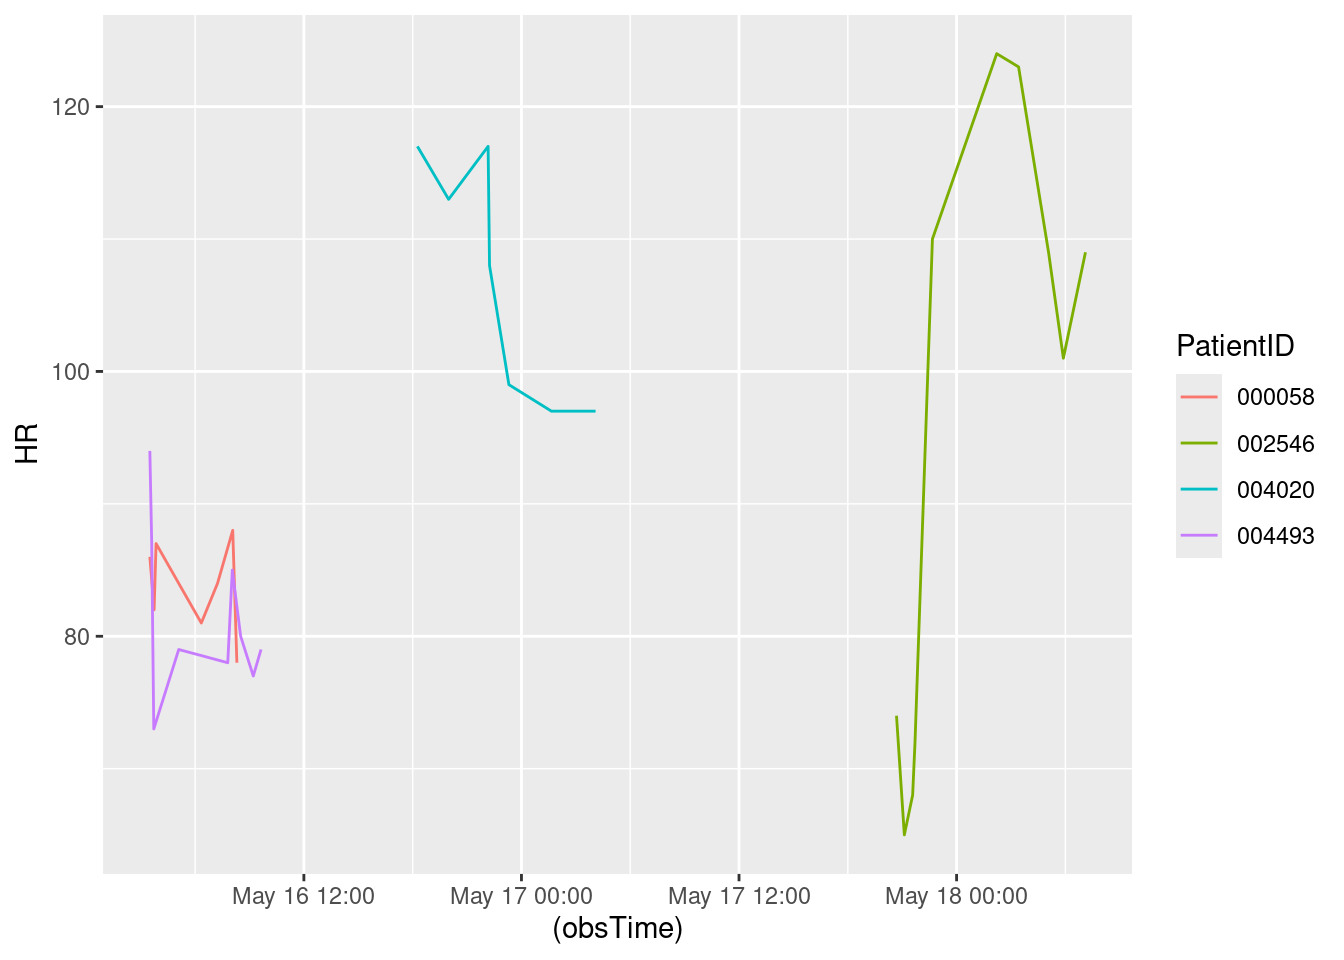
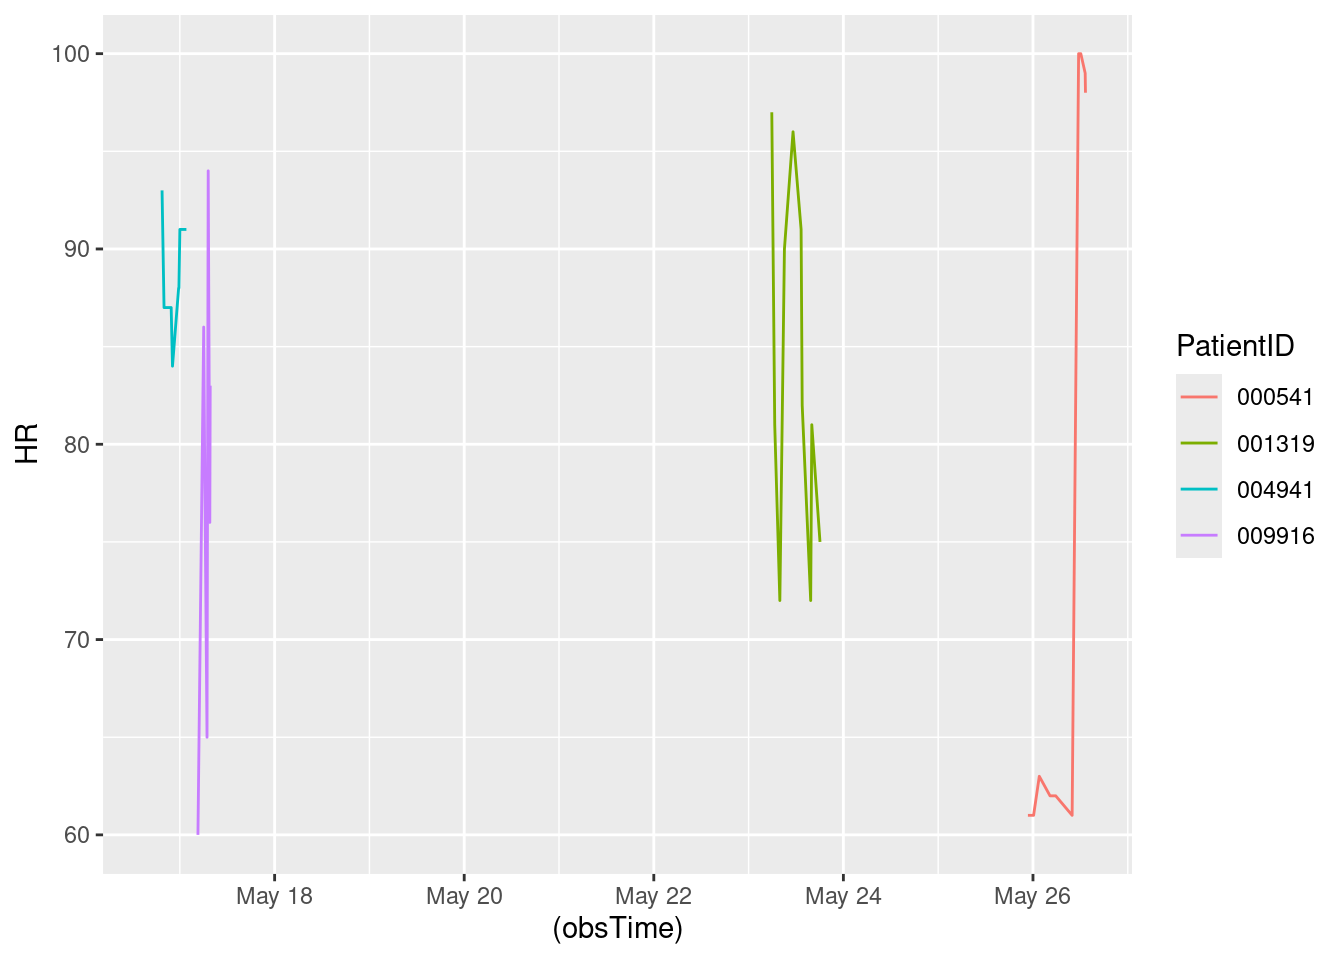
Updated report

diff --git a/HW7.html b/HW7.html
@@ -152,7 +152,7 @@ The following object is masked from 'package:purrr':
 </div>
 <div class="sourceCode cell-code" id="cb8"><pre class="sourceCode r code-with-copy"><code class="sourceCode r"><span id="cb8-1"><a href="#cb8-1" aria-hidden="true" tabindex="-1"></a><span class="fu">toc</span>()</span></code><button title="Copy to Clipboard" class="code-copy-button"><i class="bi"></i></button></pre></div>
 <div class="cell-output cell-output-stdout">
-<pre><code>21.197 sec elapsed</code></pre>
+<pre><code>19.043 sec elapsed</code></pre>
 </div>
 <div class="sourceCode cell-code" id="cb10"><pre class="sourceCode r code-with-copy"><code class="sourceCode r"><span id="cb10-1"><a href="#cb10-1" aria-hidden="true" tabindex="-1"></a><span class="fu">tic</span>()</span>
 <span id="cb10-2"><a href="#cb10-2" aria-hidden="true" tabindex="-1"></a>test1<span class="ot">=</span><span class="fu">makeSepsisDataset</span>(<span class="at">n=</span><span class="dv">50</span>,<span class="at">read_fn =</span> <span class="st">"read_delim"</span>)</span>
@@ -162,7 +162,7 @@ The following object is masked from 'package:purrr':
 </div>
 <div class="sourceCode cell-code" id="cb12"><pre class="sourceCode r code-with-copy"><code class="sourceCode r"><span id="cb12-1"><a href="#cb12-1" aria-hidden="true" tabindex="-1"></a><span class="fu">toc</span>()</span></code><button title="Copy to Clipboard" class="code-copy-button"><i class="bi"></i></button></pre></div>
 <div class="cell-output cell-output-stdout">
-<pre><code>15.666 sec elapsed</code></pre>
+<pre><code>13.762 sec elapsed</code></pre>
 </div>
 <div class="sourceCode cell-code" id="cb14"><pre class="sourceCode r code-with-copy"><code class="sourceCode r"><span id="cb14-1"><a href="#cb14-1" aria-hidden="true" tabindex="-1"></a><span class="fu">tic</span>()</span>
 <span id="cb14-2"><a href="#cb14-2" aria-hidden="true" tabindex="-1"></a>test1<span class="ot">=</span><span class="fu">makeSepsisDataset</span>(<span class="at">n=</span><span class="dv">100</span>,<span class="at">read_fn =</span> <span class="st">"fread"</span>)</span>
@@ -172,7 +172,7 @@ The following object is masked from 'package:purrr':
 </div>
 <div class="sourceCode cell-code" id="cb16"><pre class="sourceCode r code-with-copy"><code class="sourceCode r"><span id="cb16-1"><a href="#cb16-1" aria-hidden="true" tabindex="-1"></a><span class="fu">toc</span>()</span></code><button title="Copy to Clipboard" class="code-copy-button"><i class="bi"></i></button></pre></div>
 <div class="cell-output cell-output-stdout">
-<pre><code>39.323 sec elapsed</code></pre>
+<pre><code>28.25 sec elapsed</code></pre>
 </div>
 <div class="sourceCode cell-code" id="cb18"><pre class="sourceCode r code-with-copy"><code class="sourceCode r"><span id="cb18-1"><a href="#cb18-1" aria-hidden="true" tabindex="-1"></a><span class="fu">tic</span>()</span>
 <span id="cb18-2"><a href="#cb18-2" aria-hidden="true" tabindex="-1"></a>test1<span class="ot">=</span><span class="fu">makeSepsisDataset</span>(<span class="at">n=</span><span class="dv">100</span>,<span class="at">read_fn =</span> <span class="st">"read_delim"</span>)</span>
@@ -182,7 +182,7 @@ The following object is masked from 'package:purrr':
 </div>
 <div class="sourceCode cell-code" id="cb20"><pre class="sourceCode r code-with-copy"><code class="sourceCode r"><span id="cb20-1"><a href="#cb20-1" aria-hidden="true" tabindex="-1"></a><span class="fu">toc</span>()</span></code><button title="Copy to Clipboard" class="code-copy-button"><i class="bi"></i></button></pre></div>
 <div class="cell-output cell-output-stdout">
-<pre><code>31.415 sec elapsed</code></pre>
+<pre><code>25.569 sec elapsed</code></pre>
 </div>
 <div class="sourceCode cell-code" id="cb22"><pre class="sourceCode r code-with-copy"><code class="sourceCode r"><span id="cb22-1"><a href="#cb22-1" aria-hidden="true" tabindex="-1"></a><span class="fu">tic</span>()</span>
 <span id="cb22-2"><a href="#cb22-2" aria-hidden="true" tabindex="-1"></a>test1<span class="ot">=</span><span class="fu">makeSepsisDataset</span>(<span class="at">n=</span><span class="dv">500</span>,<span class="at">read_fn =</span> <span class="st">"fread"</span>)</span>
@@ -192,7 +192,7 @@ The following object is masked from 'package:purrr':
 </div>
 <div class="sourceCode cell-code" id="cb24"><pre class="sourceCode r code-with-copy"><code class="sourceCode r"><span id="cb24-1"><a href="#cb24-1" aria-hidden="true" tabindex="-1"></a><span class="fu">toc</span>()</span></code><button title="Copy to Clipboard" class="code-copy-button"><i class="bi"></i></button></pre></div>
 <div class="cell-output cell-output-stdout">
-<pre><code>193.277 sec elapsed</code></pre>
+<pre><code>139.263 sec elapsed</code></pre>
 </div>
 <div class="sourceCode cell-code" id="cb26"><pre class="sourceCode r code-with-copy"><code class="sourceCode r"><span id="cb26-1"><a href="#cb26-1" aria-hidden="true" tabindex="-1"></a><span class="fu">tic</span>()</span>
 <span id="cb26-2"><a href="#cb26-2" aria-hidden="true" tabindex="-1"></a>test1<span class="ot">=</span><span class="fu">makeSepsisDataset</span>(<span class="at">n=</span><span class="dv">500</span>,<span class="at">read_fn =</span> <span class="st">"read_delim"</span>)</span>
@@ -202,7 +202,7 @@ The following object is masked from 'package:purrr':
 </div>
 <div class="sourceCode cell-code" id="cb28"><pre class="sourceCode r code-with-copy"><code class="sourceCode r"><span id="cb28-1"><a href="#cb28-1" aria-hidden="true" tabindex="-1"></a><span class="fu">toc</span>()</span></code><button title="Copy to Clipboard" class="code-copy-button"><i class="bi"></i></button></pre></div>
 <div class="cell-output cell-output-stdout">
-<pre><code>155.082 sec elapsed</code></pre>
+<pre><code>129.596 sec elapsed</code></pre>
 </div>
 </div>
 <p>Problem 3: Speed reading</p>
@@ -244,7 +244,7 @@ dttm (1): obsTime
 <div class="sourceCode cell-code" id="cb35"><pre class="sourceCode r code-with-copy"><code class="sourceCode r"><span id="cb35-1"><a href="#cb35-1" aria-hidden="true" tabindex="-1"></a><span class="co">#Sys.Date()</span></span>
 <span id="cb35-2"><a href="#cb35-2" aria-hidden="true" tabindex="-1"></a><span class="fu">Sys.time</span>()</span></code><button title="Copy to Clipboard" class="code-copy-button"><i class="bi"></i></button></pre></div>
 <div class="cell-output cell-output-stdout">
-<pre><code>[1] "2024-05-16 03:30:18 UTC"</code></pre>
+<pre><code>[1] "2024-05-16 04:25:00 UTC"</code></pre>
 </div>
 <div class="sourceCode cell-code" id="cb37"><pre class="sourceCode r code-with-copy"><code class="sourceCode r"><span id="cb37-1"><a href="#cb37-1" aria-hidden="true" tabindex="-1"></a>dfnew<span class="ot">=</span>df <span class="sc">%&gt;%</span><span class="fu">subset</span>(SepsisLabel<span class="sc">==</span><span class="dv">1</span>)</span>
 <span id="cb37-2"><a href="#cb37-2" aria-hidden="true" tabindex="-1"></a></span>
@@ -263,19 +263,15 @@ dttm (1): obsTime
 # Groups:   PatientID [4]
   PatientID ICULOS    HR  Temp  Resp SepsisLabel obsTime            
   &lt;chr&gt;      &lt;int&gt; &lt;int&gt; &lt;dbl&gt; &lt;int&gt;       &lt;int&gt; &lt;dttm&gt;             
-1 000058         6    78  NA      12           1 2024-05-16 08:18:17
-2 002546        53   109  NA      16           1 2024-05-18 07:06:28
-3 004020        25    97  NA      21           1 2024-05-17 04:05:20
-4 004493         8    79  37.1    27           1 2024-05-16 09:38:08</code></pre>
+1 000541       249    98  NA      20           1 2024-05-26 13:17:22
+2 001319       182    75  38.1    16           1 2024-05-23 18:04:30
+3 004941        22    91  NA      22           1 2024-05-17 01:39:50
+4 009916        28    83  NA      14           1 2024-05-17 07:41:32</code></pre>
 </div>
 </div>
 <div class="cell">
 <div class="sourceCode cell-code" id="cb39"><pre class="sourceCode r code-with-copy"><code class="sourceCode r"><span id="cb39-1"><a href="#cb39-1" aria-hidden="true" tabindex="-1"></a>dfnew <span class="sc">%&gt;%</span></span>
 <span id="cb39-2"><a href="#cb39-2" aria-hidden="true" tabindex="-1"></a>  <span class="fu">ggplot</span>()<span class="sc">+</span><span class="fu">geom_line</span>(<span class="fu">aes</span>(<span class="at">y=</span>HR,<span class="at">x=</span>(obsTime),<span class="at">color=</span>PatientID))</span></code><button title="Copy to Clipboard" class="code-copy-button"><i class="bi"></i></button></pre></div>
-<div class="cell-output cell-output-stderr">
-<pre><code>Warning: Removed 1 row containing missing values or values outside the scale range
-(`geom_line()`).</code></pre>
-</div>
 <div class="cell-output-display">
 <div>
 <figure class="figure">
@@ -288,7 +284,7 @@ dttm (1): obsTime
 <section id="display-the-most-recent-data" class="level2">
 <h2 class="anchored" data-anchor-id="display-the-most-recent-data">Display the most recent data</h2>
 <div class="cell">
-<div class="sourceCode cell-code" id="cb41"><pre class="sourceCode r code-with-copy"><code class="sourceCode r"><span id="cb41-1"><a href="#cb41-1" aria-hidden="true" tabindex="-1"></a>most_recent_data</span></code><button title="Copy to Clipboard" class="code-copy-button"><i class="bi"></i></button></pre></div>
+<div class="sourceCode cell-code" id="cb40"><pre class="sourceCode r code-with-copy"><code class="sourceCode r"><span id="cb40-1"><a href="#cb40-1" aria-hidden="true" tabindex="-1"></a>most_recent_data</span></code><button title="Copy to Clipboard" class="code-copy-button"><i class="bi"></i></button></pre></div>
 <div class="cell-output cell-output-stdout">
 <pre><code># A tibble: 50 × 7
 # Groups:   PatientID [50]
@@ -311,32 +307,32 @@ dttm (1): obsTime
 <section id="calculate-the-difference" class="level2">
 <h2 class="anchored" data-anchor-id="calculate-the-difference">Calculate the difference</h2>
 <div class="cell">
-<div class="sourceCode cell-code" id="cb43"><pre class="sourceCode r code-with-copy"><code class="sourceCode r"><span id="cb43-1"><a href="#cb43-1" aria-hidden="true" tabindex="-1"></a><span class="fu">library</span>(dplyr)</span>
-<span id="cb43-2"><a href="#cb43-2" aria-hidden="true" tabindex="-1"></a><span class="fu">library</span>(tidyr)</span>
-<span id="cb43-3"><a href="#cb43-3" aria-hidden="true" tabindex="-1"></a><span class="fu">library</span>(knitr)</span>
-<span id="cb43-4"><a href="#cb43-4" aria-hidden="true" tabindex="-1"></a>get_observation_data <span class="ot">&lt;-</span> <span class="cf">function</span>(data, n, column_suffix) {</span>
-<span id="cb43-5"><a href="#cb43-5" aria-hidden="true" tabindex="-1"></a>  data <span class="sc">%&gt;%</span></span>
-<span id="cb43-6"><a href="#cb43-6" aria-hidden="true" tabindex="-1"></a>    <span class="fu">group_by</span>(PatientID) <span class="sc">%&gt;%</span></span>
-<span id="cb43-7"><a href="#cb43-7" aria-hidden="true" tabindex="-1"></a>    <span class="fu">slice_max</span>(<span class="at">order_by =</span> obsTime, <span class="at">n =</span> n) <span class="sc">%&gt;%</span></span>
-<span id="cb43-8"><a href="#cb43-8" aria-hidden="true" tabindex="-1"></a>    <span class="fu">select</span>(<span class="sc">-</span><span class="fu">c</span>(ICULOS, SepsisLabel, obsTime)) <span class="sc">%&gt;%</span></span>
-<span id="cb43-9"><a href="#cb43-9" aria-hidden="true" tabindex="-1"></a>    <span class="fu">rename_at</span>(<span class="fu">vars</span>(HR, Temp, Resp),</span>
-<span id="cb43-10"><a href="#cb43-10" aria-hidden="true" tabindex="-1"></a>              <span class="fu">list</span>(<span class="sc">~</span><span class="fu">paste0</span>(., <span class="st">"_"</span>, column_suffix)))</span>
-<span id="cb43-11"><a href="#cb43-11" aria-hidden="true" tabindex="-1"></a>}</span>
-<span id="cb43-12"><a href="#cb43-12" aria-hidden="true" tabindex="-1"></a></span>
-<span id="cb43-13"><a href="#cb43-13" aria-hidden="true" tabindex="-1"></a></span>
-<span id="cb43-14"><a href="#cb43-14" aria-hidden="true" tabindex="-1"></a></span>
-<span id="cb43-15"><a href="#cb43-15" aria-hidden="true" tabindex="-1"></a></span>
-<span id="cb43-16"><a href="#cb43-16" aria-hidden="true" tabindex="-1"></a>last_obs <span class="ot">&lt;-</span> <span class="fu">get_observation_data</span>(new_data, <span class="dv">1</span>, <span class="st">"last"</span>)</span>
-<span id="cb43-17"><a href="#cb43-17" aria-hidden="true" tabindex="-1"></a>penultimate_obs <span class="ot">&lt;-</span> <span class="fu">get_observation_data</span>(new_data, <span class="dv">2</span>, <span class="st">"penult"</span>)</span>
-<span id="cb43-18"><a href="#cb43-18" aria-hidden="true" tabindex="-1"></a>joined_data <span class="ot">&lt;-</span> <span class="fu">full_join</span>(last_obs, penultimate_obs) <span class="sc">%&gt;%</span></span>
-<span id="cb43-19"><a href="#cb43-19" aria-hidden="true" tabindex="-1"></a>  <span class="fu">transmute</span>(PatientID,</span>
-<span id="cb43-20"><a href="#cb43-20" aria-hidden="true" tabindex="-1"></a>            <span class="st">`</span><span class="at">Temperature change</span><span class="st">`</span> <span class="ot">=</span> Temp_last <span class="sc">-</span> Temp_penult,</span>
-<span id="cb43-21"><a href="#cb43-21" aria-hidden="true" tabindex="-1"></a>            <span class="st">`</span><span class="at">Heart rate change</span><span class="st">`</span> <span class="ot">=</span> HR_last <span class="sc">-</span> HR_penult,</span>
-<span id="cb43-22"><a href="#cb43-22" aria-hidden="true" tabindex="-1"></a>            <span class="st">`</span><span class="at">Respiratory rate change</span><span class="st">`</span> <span class="ot">=</span> Resp_last <span class="sc">-</span> Resp_penult)</span></code><button title="Copy to Clipboard" class="code-copy-button"><i class="bi"></i></button></pre></div>
+<div class="sourceCode cell-code" id="cb42"><pre class="sourceCode r code-with-copy"><code class="sourceCode r"><span id="cb42-1"><a href="#cb42-1" aria-hidden="true" tabindex="-1"></a><span class="fu">library</span>(dplyr)</span>
+<span id="cb42-2"><a href="#cb42-2" aria-hidden="true" tabindex="-1"></a><span class="fu">library</span>(tidyr)</span>
+<span id="cb42-3"><a href="#cb42-3" aria-hidden="true" tabindex="-1"></a><span class="fu">library</span>(knitr)</span>
+<span id="cb42-4"><a href="#cb42-4" aria-hidden="true" tabindex="-1"></a>get_observation_data <span class="ot">&lt;-</span> <span class="cf">function</span>(data, n, column_suffix) {</span>
+<span id="cb42-5"><a href="#cb42-5" aria-hidden="true" tabindex="-1"></a>  data <span class="sc">%&gt;%</span></span>
+<span id="cb42-6"><a href="#cb42-6" aria-hidden="true" tabindex="-1"></a>    <span class="fu">group_by</span>(PatientID) <span class="sc">%&gt;%</span></span>
+<span id="cb42-7"><a href="#cb42-7" aria-hidden="true" tabindex="-1"></a>    <span class="fu">slice_max</span>(<span class="at">order_by =</span> obsTime, <span class="at">n =</span> n) <span class="sc">%&gt;%</span></span>
+<span id="cb42-8"><a href="#cb42-8" aria-hidden="true" tabindex="-1"></a>    <span class="fu">select</span>(<span class="sc">-</span><span class="fu">c</span>(ICULOS, SepsisLabel, obsTime)) <span class="sc">%&gt;%</span></span>
+<span id="cb42-9"><a href="#cb42-9" aria-hidden="true" tabindex="-1"></a>    <span class="fu">rename_at</span>(<span class="fu">vars</span>(HR, Temp, Resp),</span>
+<span id="cb42-10"><a href="#cb42-10" aria-hidden="true" tabindex="-1"></a>              <span class="fu">list</span>(<span class="sc">~</span><span class="fu">paste0</span>(., <span class="st">"_"</span>, column_suffix)))</span>
+<span id="cb42-11"><a href="#cb42-11" aria-hidden="true" tabindex="-1"></a>}</span>
+<span id="cb42-12"><a href="#cb42-12" aria-hidden="true" tabindex="-1"></a></span>
+<span id="cb42-13"><a href="#cb42-13" aria-hidden="true" tabindex="-1"></a></span>
+<span id="cb42-14"><a href="#cb42-14" aria-hidden="true" tabindex="-1"></a></span>
+<span id="cb42-15"><a href="#cb42-15" aria-hidden="true" tabindex="-1"></a></span>
+<span id="cb42-16"><a href="#cb42-16" aria-hidden="true" tabindex="-1"></a>last_obs <span class="ot">&lt;-</span> <span class="fu">get_observation_data</span>(new_data, <span class="dv">1</span>, <span class="st">"last"</span>)</span>
+<span id="cb42-17"><a href="#cb42-17" aria-hidden="true" tabindex="-1"></a>penultimate_obs <span class="ot">&lt;-</span> <span class="fu">get_observation_data</span>(new_data, <span class="dv">2</span>, <span class="st">"penult"</span>)</span>
+<span id="cb42-18"><a href="#cb42-18" aria-hidden="true" tabindex="-1"></a>joined_data <span class="ot">&lt;-</span> <span class="fu">full_join</span>(last_obs, penultimate_obs) <span class="sc">%&gt;%</span></span>
+<span id="cb42-19"><a href="#cb42-19" aria-hidden="true" tabindex="-1"></a>  <span class="fu">transmute</span>(PatientID,</span>
+<span id="cb42-20"><a href="#cb42-20" aria-hidden="true" tabindex="-1"></a>            <span class="st">`</span><span class="at">Temperature change</span><span class="st">`</span> <span class="ot">=</span> Temp_last <span class="sc">-</span> Temp_penult,</span>
+<span id="cb42-21"><a href="#cb42-21" aria-hidden="true" tabindex="-1"></a>            <span class="st">`</span><span class="at">Heart rate change</span><span class="st">`</span> <span class="ot">=</span> HR_last <span class="sc">-</span> HR_penult,</span>
+<span id="cb42-22"><a href="#cb42-22" aria-hidden="true" tabindex="-1"></a>            <span class="st">`</span><span class="at">Respiratory rate change</span><span class="st">`</span> <span class="ot">=</span> Resp_last <span class="sc">-</span> Resp_penult)</span></code><button title="Copy to Clipboard" class="code-copy-button"><i class="bi"></i></button></pre></div>
 <div class="cell-output cell-output-stderr">
 <pre><code>Joining with `by = join_by(PatientID)`</code></pre>
 </div>
-<div class="sourceCode cell-code" id="cb45"><pre class="sourceCode r code-with-copy"><code class="sourceCode r"><span id="cb45-1"><a href="#cb45-1" aria-hidden="true" tabindex="-1"></a><span class="fu">kable</span>(joined_data, <span class="at">caption =</span> <span class="st">"Patients' Recent Changes in Vital Stats"</span>)</span></code><button title="Copy to Clipboard" class="code-copy-button"><i class="bi"></i></button></pre></div>
+<div class="sourceCode cell-code" id="cb44"><pre class="sourceCode r code-with-copy"><code class="sourceCode r"><span id="cb44-1"><a href="#cb44-1" aria-hidden="true" tabindex="-1"></a><span class="fu">kable</span>(joined_data, <span class="at">caption =</span> <span class="st">"Patients' Recent Changes in Vital Stats"</span>)</span></code><button title="Copy to Clipboard" class="code-copy-button"><i class="bi"></i></button></pre></div>
 <div class="cell-output-display">
 <table class="table table-sm table-striped small">
 <caption>Patients’ Recent Changes in Vital Stats</caption>
